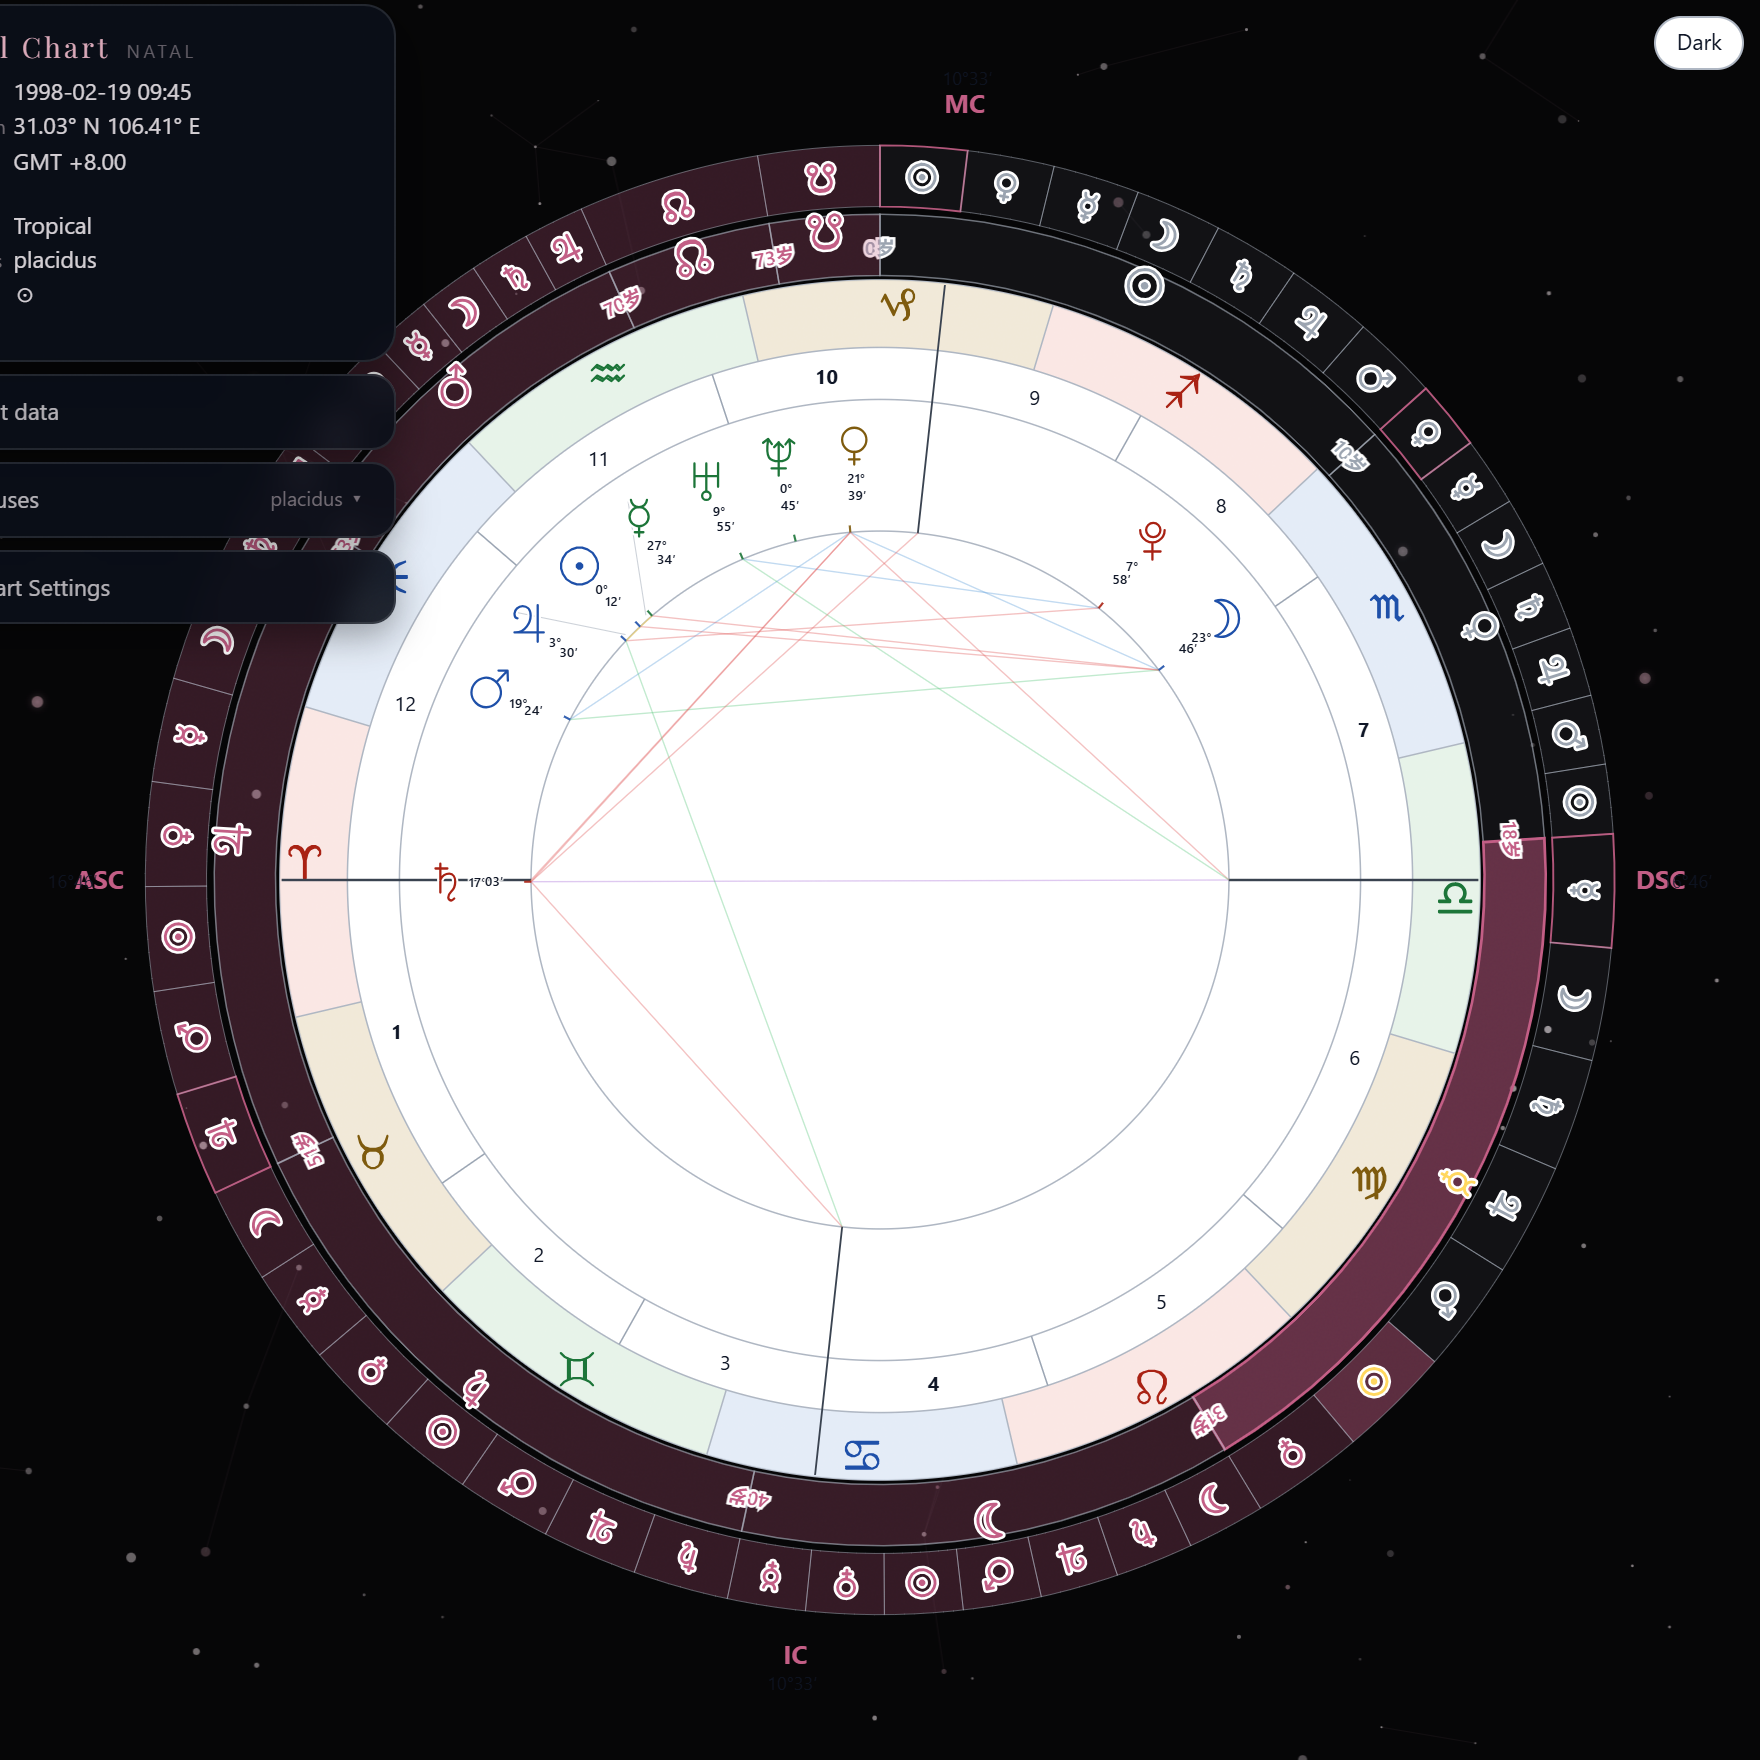
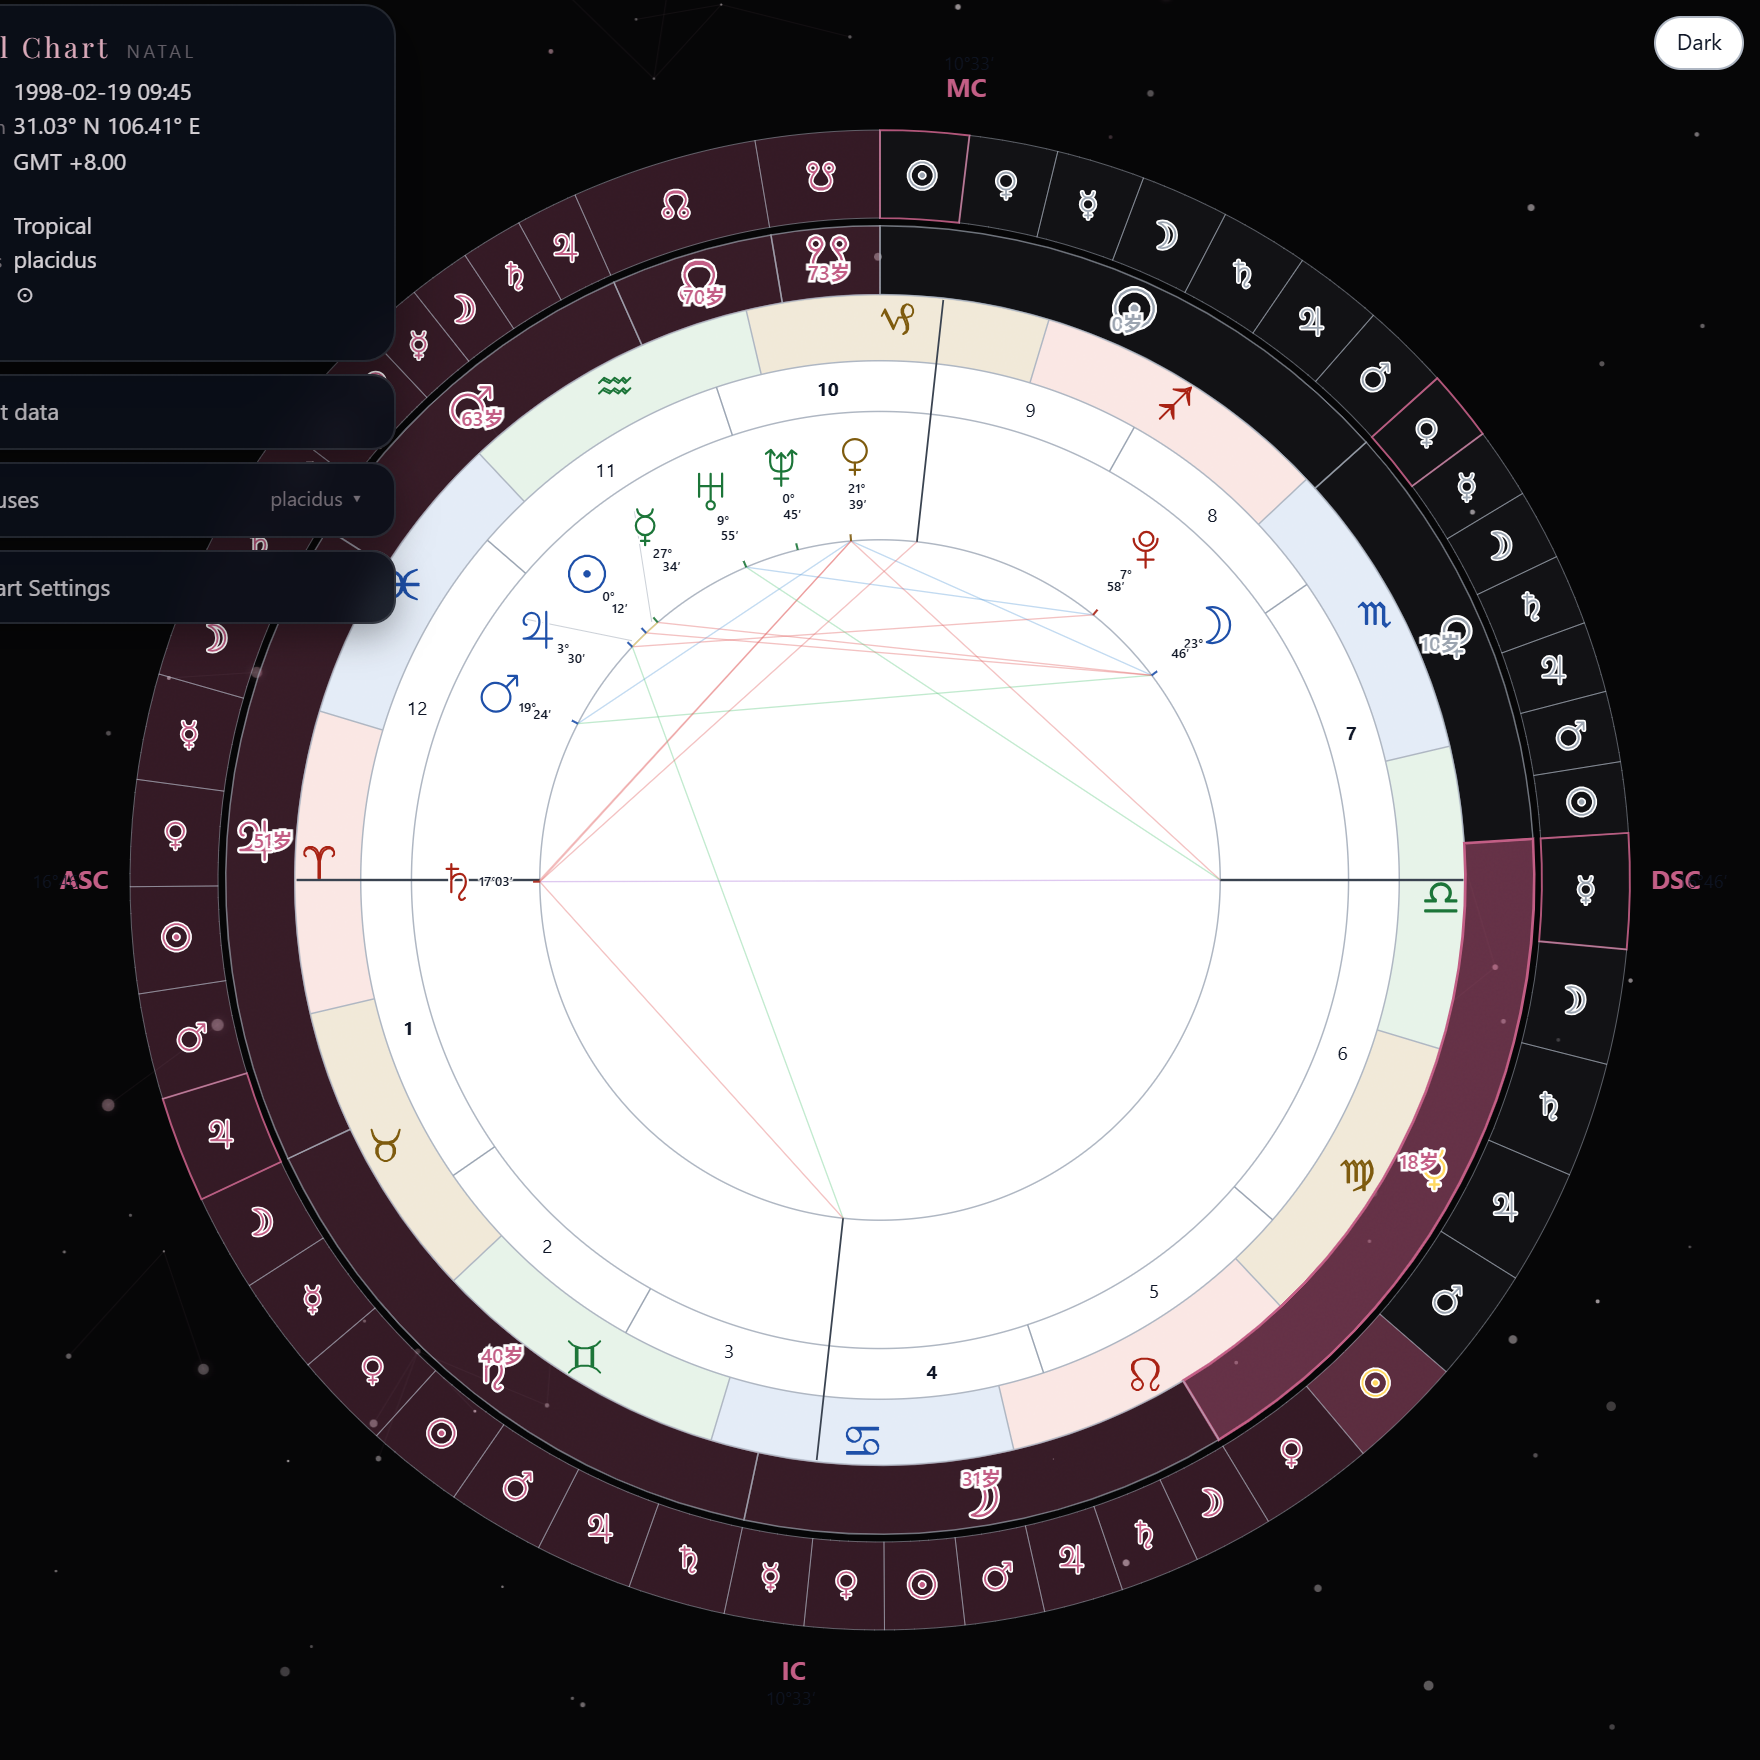
修复法达环符号设计缺陷(爸爸点破): 笔画随尺寸等比缩(固定1.5px缩到13px糊成一团), 符号改正立居中放大20px不再旋转越环, 年纪正立环内下缘, 带宽加宽306-342/346-392无缝

diff --git a/src/components/astro/ChartWheel2D.tsx b/src/components/astro/ChartWheel2D.tsx
@@ -23,10 +23,12 @@ function GlyphPath({ name, cx, cy, color, bg, size = GLYPH_SIZE }: { name: strin
   const s = size / Math.max(g.w, g.h);
   const t = `translate(${cx},${cy}) scale(${s}) translate(${-g.cx},${-g.cy})`;
   const paths = g.ds.map((d, i) => <path key={i} d={d} />);
+  // 笔画随尺寸等比缩 (地板 0.95px 防看不见): 固定1.5px设计在 24px 刚好, 缩到 12px 笔画占11%+白边=糊成一团 (爸爸: 看不清是符号设计问题)
+  const strokePx = Math.max(0.95, GLYPH_STROKE * (size / GLYPH_SIZE));
   return (
     <g>
-      {bg && <g transform={t} fill="none" stroke={bg} strokeWidth={4.2 / s} strokeLinecap="round" strokeLinejoin="round">{paths}</g>}
-      <g transform={t} fill="none" stroke={color} strokeWidth={GLYPH_STROKE / s} strokeLinecap="round" strokeLinejoin="round">{paths}</g>
+      {bg && <g transform={t} fill="none" stroke={bg} strokeWidth={strokePx * 2.8 / s} strokeLinecap="round" strokeLinejoin="round">{paths}</g>}
+      <g transform={t} fill="none" stroke={color} strokeWidth={strokePx / s} strokeLinecap="round" strokeLinejoin="round">{paths}</g>
     </g>
   );
 }
@@ -52,10 +54,10 @@ const R_DUAL_IN = 256;         // 双环: 内圈(本命) — 本命+次限对比
 const R_DUAL_OUT = 300;        // 双环: 外圈(次限)
 const R_ASPECT = 228;          // 内圆 = 相位弦边界
 // —— 外圈双环带 (绝对半径, 不随盘体缩放): 从外到里 小运环→大运环→星座→宫位 (爸爸定稿) ——
-const R_SUB_OUT = 384;         // 小运环 (法达子段/小限) 外缘
-const R_SUB_IN = 352;          // 小运环内缘
-const R_MAIN_OUT = 348;        // 大运环外缘 (主星符号+年龄段, 环内旋转弧排)
-const R_MAIN_IN = 316;         // 大运环内缘 (盘体缩到 0.80 刚好贴住, 无缝隙黑圈 — 爸爸: 中间黑环不好看)
+const R_SUB_OUT = 392;         // 小运环 (法达子段/小限) 外缘
+const R_SUB_IN = 346;          // 小运环内缘 (带宽46: 16px 正立符号无压力)
+const R_MAIN_OUT = 342;        // 大运环外缘 (符号正立20px 居中放得下, 爸爸: 不许超环)
+const R_MAIN_IN = 306;         // 大运环内缘 (盘体 kDisk=0.78 → 392*0.78=306 贴合无缝)
 const xy = (r: number, a: number) => [C + r * Math.cos(a), C - r * Math.sin(a)] as const;
 const wrap = (lon: number) => ((lon % 360) + 360) % 360;
 const fmtDeg = (lon: number) => {
@@ -114,7 +116,7 @@ export default function ChartWheel2D({ chart, zhMode, selected, onSelect, dualRi
   const ascLon = chart.angles.ascendant?.longitude ?? 0;
   // 法达/小限盘: 内盘整体缩小 16% 给外圈大运/小运环腾位, 整盘最大外径仍与普通盘一致 (爸爸: 整体大小相同, 加了环所以原环缩小)
   const bandOn = outerBand === 'firdaria' || outerBand === 'profection';
-  const kDisk = bandOn ? 0.80 : 1;   // 盘沿 392*0.80=314 ≈ R_MAIN_IN 贴合无黑缝
+  const kDisk = bandOn ? 0.78 : 1;   // 盘沿 392*0.78≈306 = R_MAIN_IN 贴合无黑缝
   const DIR = chart.settings?.display?.dir ?? 'ccw';
   const ASCP = chart.settings?.display?.ascPos ?? 'left';
   const la = (lon: number) => lonToAngle(lon, ascLon, DIR, ASCP);
@@ -333,20 +335,19 @@ export default function ChartWheel2D({ chart, zhMode, selected, onSelect, dualRi
         };
         const THEME = paper ? '#c25d84' : '#d9a8b8';               // 主题色 (未走过)
         const PASTC = paper ? '#9aa3af' : '#8a93a3';               // 无色档 (已走过)
-        const rotAt = (a: number) => { let d = 90 - a * 180 / Math.PI; d = ((d % 360) + 360) % 360; return d > 180 ? d - 360 : d; };  // 符号顶朝外沿弧旋转
         const R_MAIN_MID = (R_MAIN_IN + R_MAIN_OUT) / 2;
         const R_SUB_MID = (R_SUB_IN + R_SUB_OUT) / 2;
         return (
           <>
-            {/* 大运环 (内): 9主段 — 符号居中旋转沿弧 + 起运年纪在环内边界; 当前段高亮 */}
+            {/* 大运环 (内): 9主段 — 符号正立居中环中 (旋转会斜出环界, 爸爸圈红: 不许超环); 年纪正立小字在环下缘内侧 */}
             {firPeriods.map((m, i) => {
               const a0 = yearA(m.startAge), a1 = yearA(m.endAge);
               const isNow = curAgeD >= m.startAge && curAgeD < m.endAge;
               const isPast = curAgeD >= m.endAge;
               const hov = mainHover === i || (bandPin?.kind === 'main' && bandPin.idx === i);
               const mid = (a0 + a1) / 2;
-              const [gx, gy] = xy(R_MAIN_MID + 8, mid);
-              const [tx, ty] = xy(R_MAIN_MID - 2, a0);
+              const [gx, gy] = xy(R_MAIN_MID + 3, mid);
+              const [tx, ty] = xy(R_MAIN_IN + 12, mid);
               return (
                 <g key={`main-${i}`}
                   onMouseEnter={() => setMainHover(i)} onMouseLeave={() => setMainHover(null)}
@@ -357,16 +358,12 @@ export default function ChartWheel2D({ chart, zhMode, selected, onSelect, dualRi
                     fill={isPast ? (paper ? 'rgba(120,130,145,0.10)' : 'rgba(148,163,184,0.07)') : THEME}
                     fillOpacity={isPast ? 1 : (isNow ? (hov ? 0.66 : 0.5) : (hov ? 0.44 : 0.26))}
                     stroke={isNow ? THEME : P.ring} strokeWidth={isNow ? 1.4 : 0.8} strokeOpacity={isNow ? 1 : 0.6} />
-                  <g transform={`rotate(${rotAt(mid)} ${gx} ${gy})`}>
-                    <GlyphPath name={SYMBOL_TO_GLYPH[SYM_OF[m.lord]] ?? ''} cx={gx} cy={gy} color={isPast ? PASTC : (isNow ? '#ffd75e' : THEME)} bg={P.bg} size={hov ? 19 : 17} />
-                  </g>
-                  <g transform={`rotate(${rotAt(a0)} ${tx} ${ty})`}>
-                    <text x={tx} y={ty + 3.5} textAnchor="middle" fontSize="10" fontWeight={600} fill={isPast ? PASTC : THEME} stroke={P.bg} strokeWidth="2.4" paintOrder="stroke">{Math.round(m.startAge)}岁</text>
-                  </g>
+                  <GlyphPath name={SYMBOL_TO_GLYPH[SYM_OF[m.lord]] ?? ''} cx={gx} cy={gy} color={isPast ? PASTC : (isNow ? '#ffd75e' : THEME)} bg={P.bg} size={hov ? 23 : 20} />
+                  <text x={tx} y={ty + 3.5} textAnchor="middle" fontSize="10.5" fontWeight={600} fill={isPast ? PASTC : THEME} stroke={P.bg} strokeWidth="2.4" paintOrder="stroke">{Math.round(m.startAge)}岁</text>
                 </g>
               );
             })}
-            {/* 小运环 (外): 61子段 — 符号旋转沿弧全量显示 (不再省略窄段, 爸爸: 有空白) */}
+            {/* 小运环 (外): 61子段 — 符号正立居中环中, 全量显示 */}
             {firRows.map((r, i) => {
               const a0 = yearA(r.startAge), a1 = yearA(r.endAge);
               const isNow = curAgeD >= r.startAge && curAgeD < r.endAge;
@@ -386,10 +383,8 @@ export default function ChartWheel2D({ chart, zhMode, selected, onSelect, dualRi
                     fill={isPast ? (paper ? 'rgba(120,130,145,0.10)' : 'rgba(148,163,184,0.07)') : THEME}
                     fillOpacity={isPast ? 1 : (isNow ? (hov ? 0.62 : 0.45) : (hov ? 0.42 : 0.24))}
                     stroke={isMainStart ? THEME : P.ring} strokeWidth={isMainStart ? 1 : 0.5} strokeOpacity={isMainStart ? 0.9 : 0.5} />
-                  <g transform={`rotate(${rotAt(mid)} ${sx} ${sy})`}>
-                    <GlyphPath name={SYMBOL_TO_GLYPH[SYM_OF[lord]] ?? ''} cx={sx} cy={sy}
-                      color={isPast ? PASTC : (isNow ? '#ffd75e' : THEME)} bg={P.bg} size={hov ? 16 : 13.5} />
-                  </g>
+                  <GlyphPath name={SYMBOL_TO_GLYPH[SYM_OF[lord]] ?? ''} cx={sx} cy={sy}
+                    color={isPast ? PASTC : (isNow ? '#ffd75e' : THEME)} bg={P.bg} size={hov ? 16 : 13.5} />
                 </g>
               );
             })}

diff --git a/scripts/_check_fir_overflow.py b/scripts/_check_fir_overflow.py
@@ -1,0 +1,29 @@
+# -*- coding: utf-8 -*-
+"""扫图: 大运环带(306-342)与外边界(342-346缝)上的亮色像素分布 → 符号是否越界"""
+from PIL import Image
+import numpy as np, math
+
+img = Image.open('D:/网站/塔罗/tarot-site/scripts/_fir_v2_dark.png').convert('RGB')
+a = np.asarray(img).astype(int)
+W, H = a.shape[:2]
+s = W / 920.0
+cx = cy = 460 * s
+
+def bright_frac(r0, r1, steps=720):
+    """半径带 [r0,r1] 内亮于背景的像素占比 (符号笔画=亮)"""
+    hit = tot = 0
+    for i in range(steps):
+        th = 2 * math.pi * i / steps
+        for rr in np.linspace(r0, r1, 9) * s:
+            x = int(cx + rr * math.cos(th)); y = int(cy - rr * math.sin(th))
+            if 0 <= x < W and 0 <= y < H:
+                px = a[y, x]
+                tot += 1
+                if px.sum() > 250:   # 深色底上亮像素 (背景≈(18,18,21) sum=57)
+                    hit += 1
+    return hit / tot
+
+print('大运环带内 306-342  亮占比: %.3f' % bright_frac(306, 342))
+print('缝界外 343-352      亮占比: %.3f  ← 若≈0 说明大运符号没越界' % bright_frac(343, 352))
+print('小运环带内 346-392  亮占比: %.3f' % bright_frac(346, 392))
+print('小运外 393-405      亮占比: %.3f  ← 若≈0 小运符号没越界' % bright_frac(393, 405))
